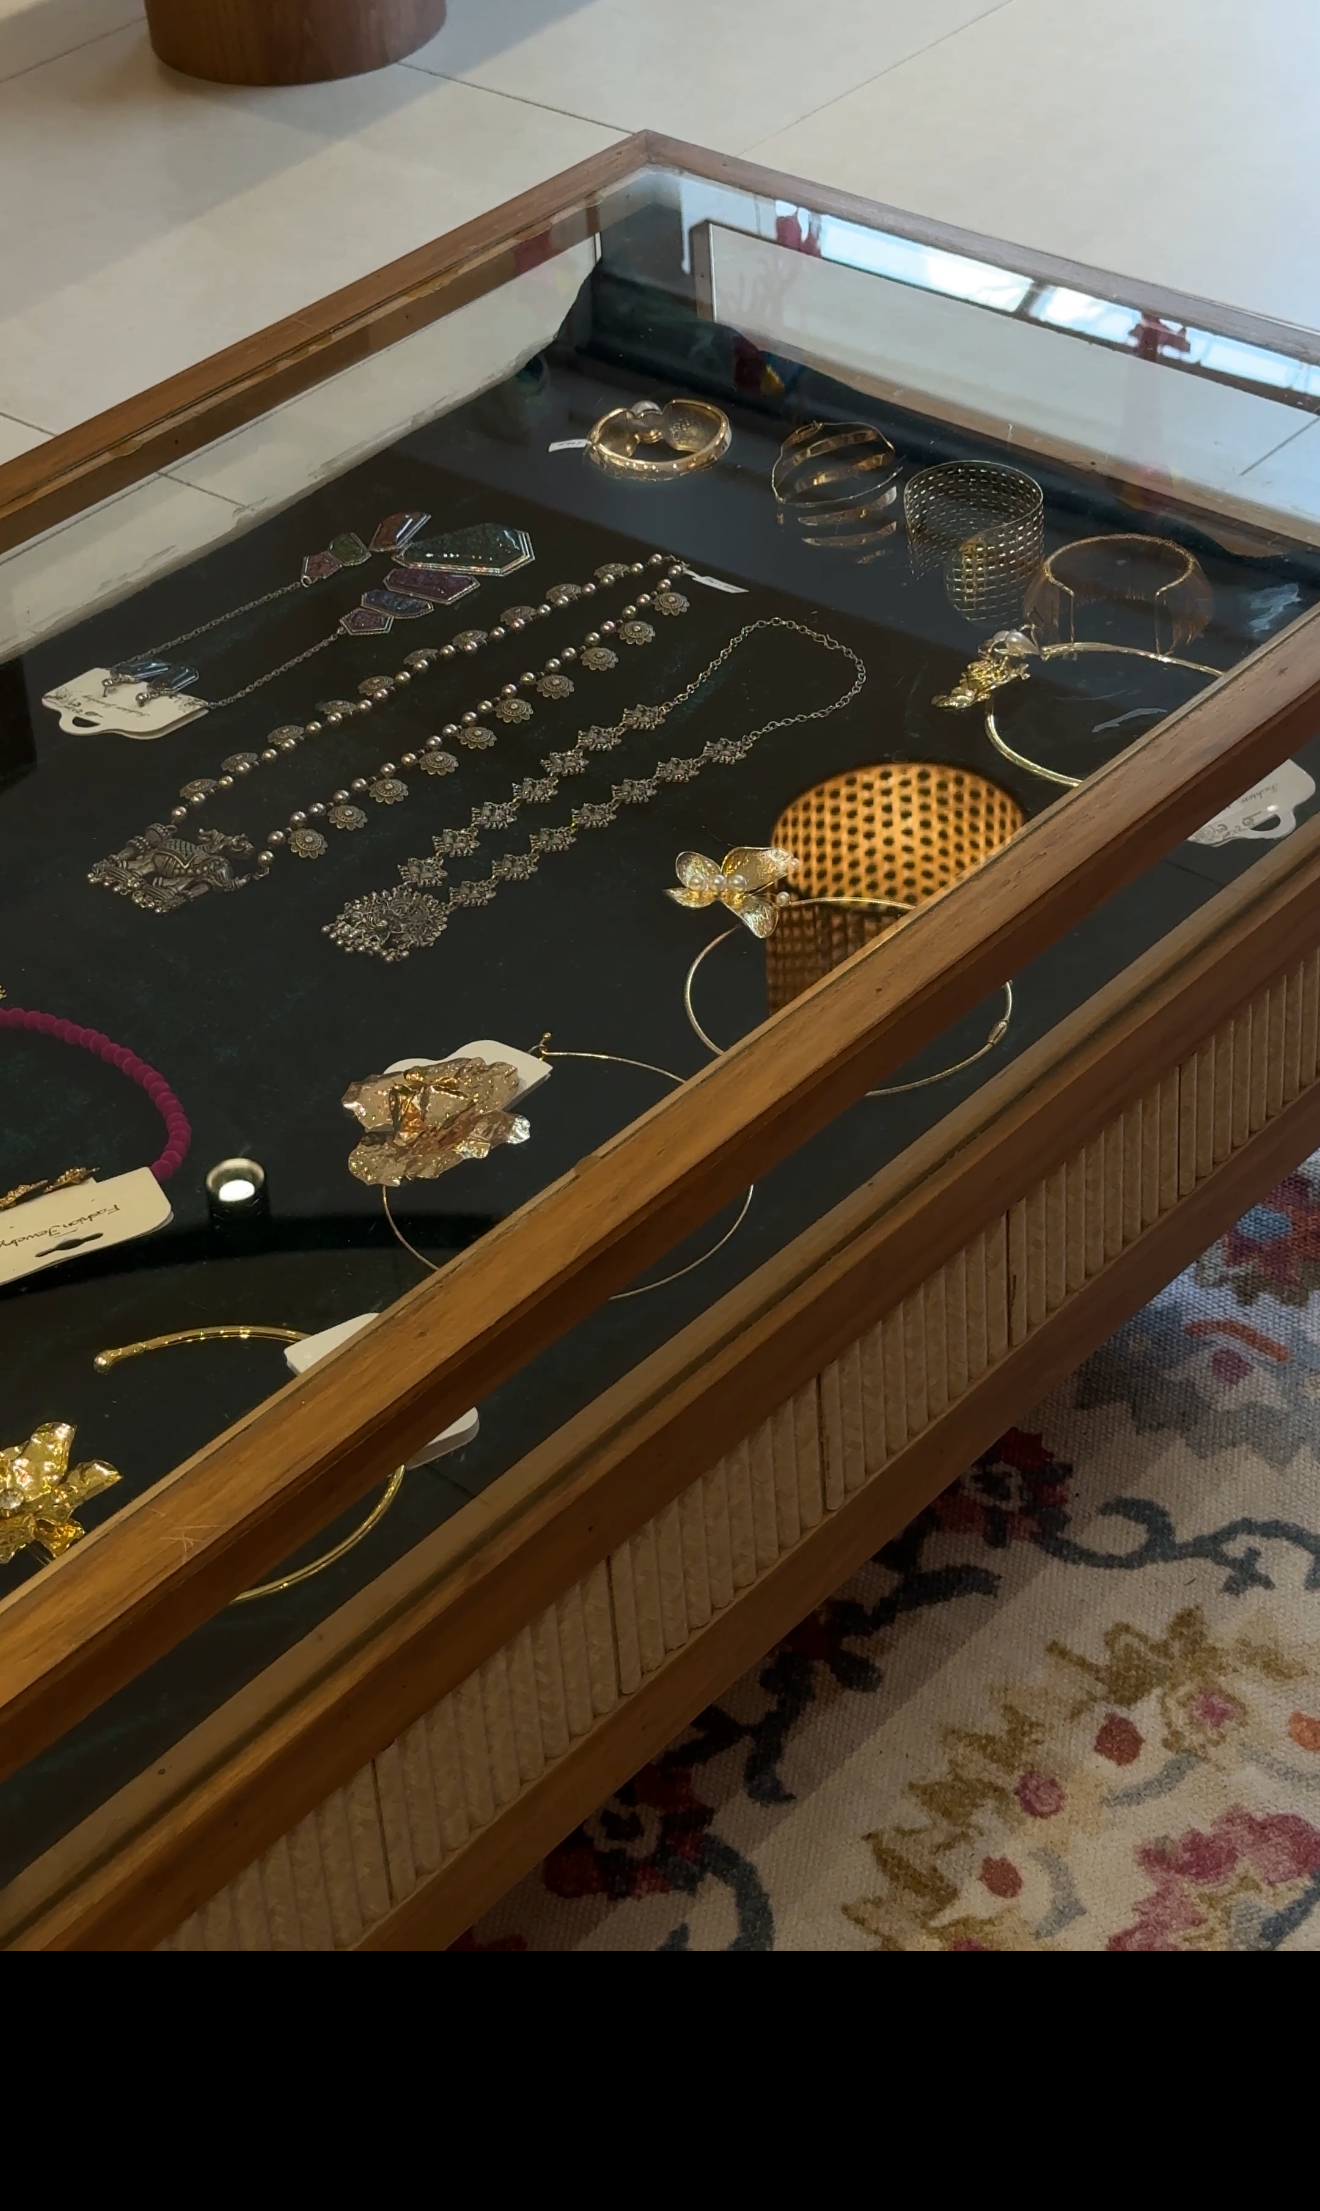
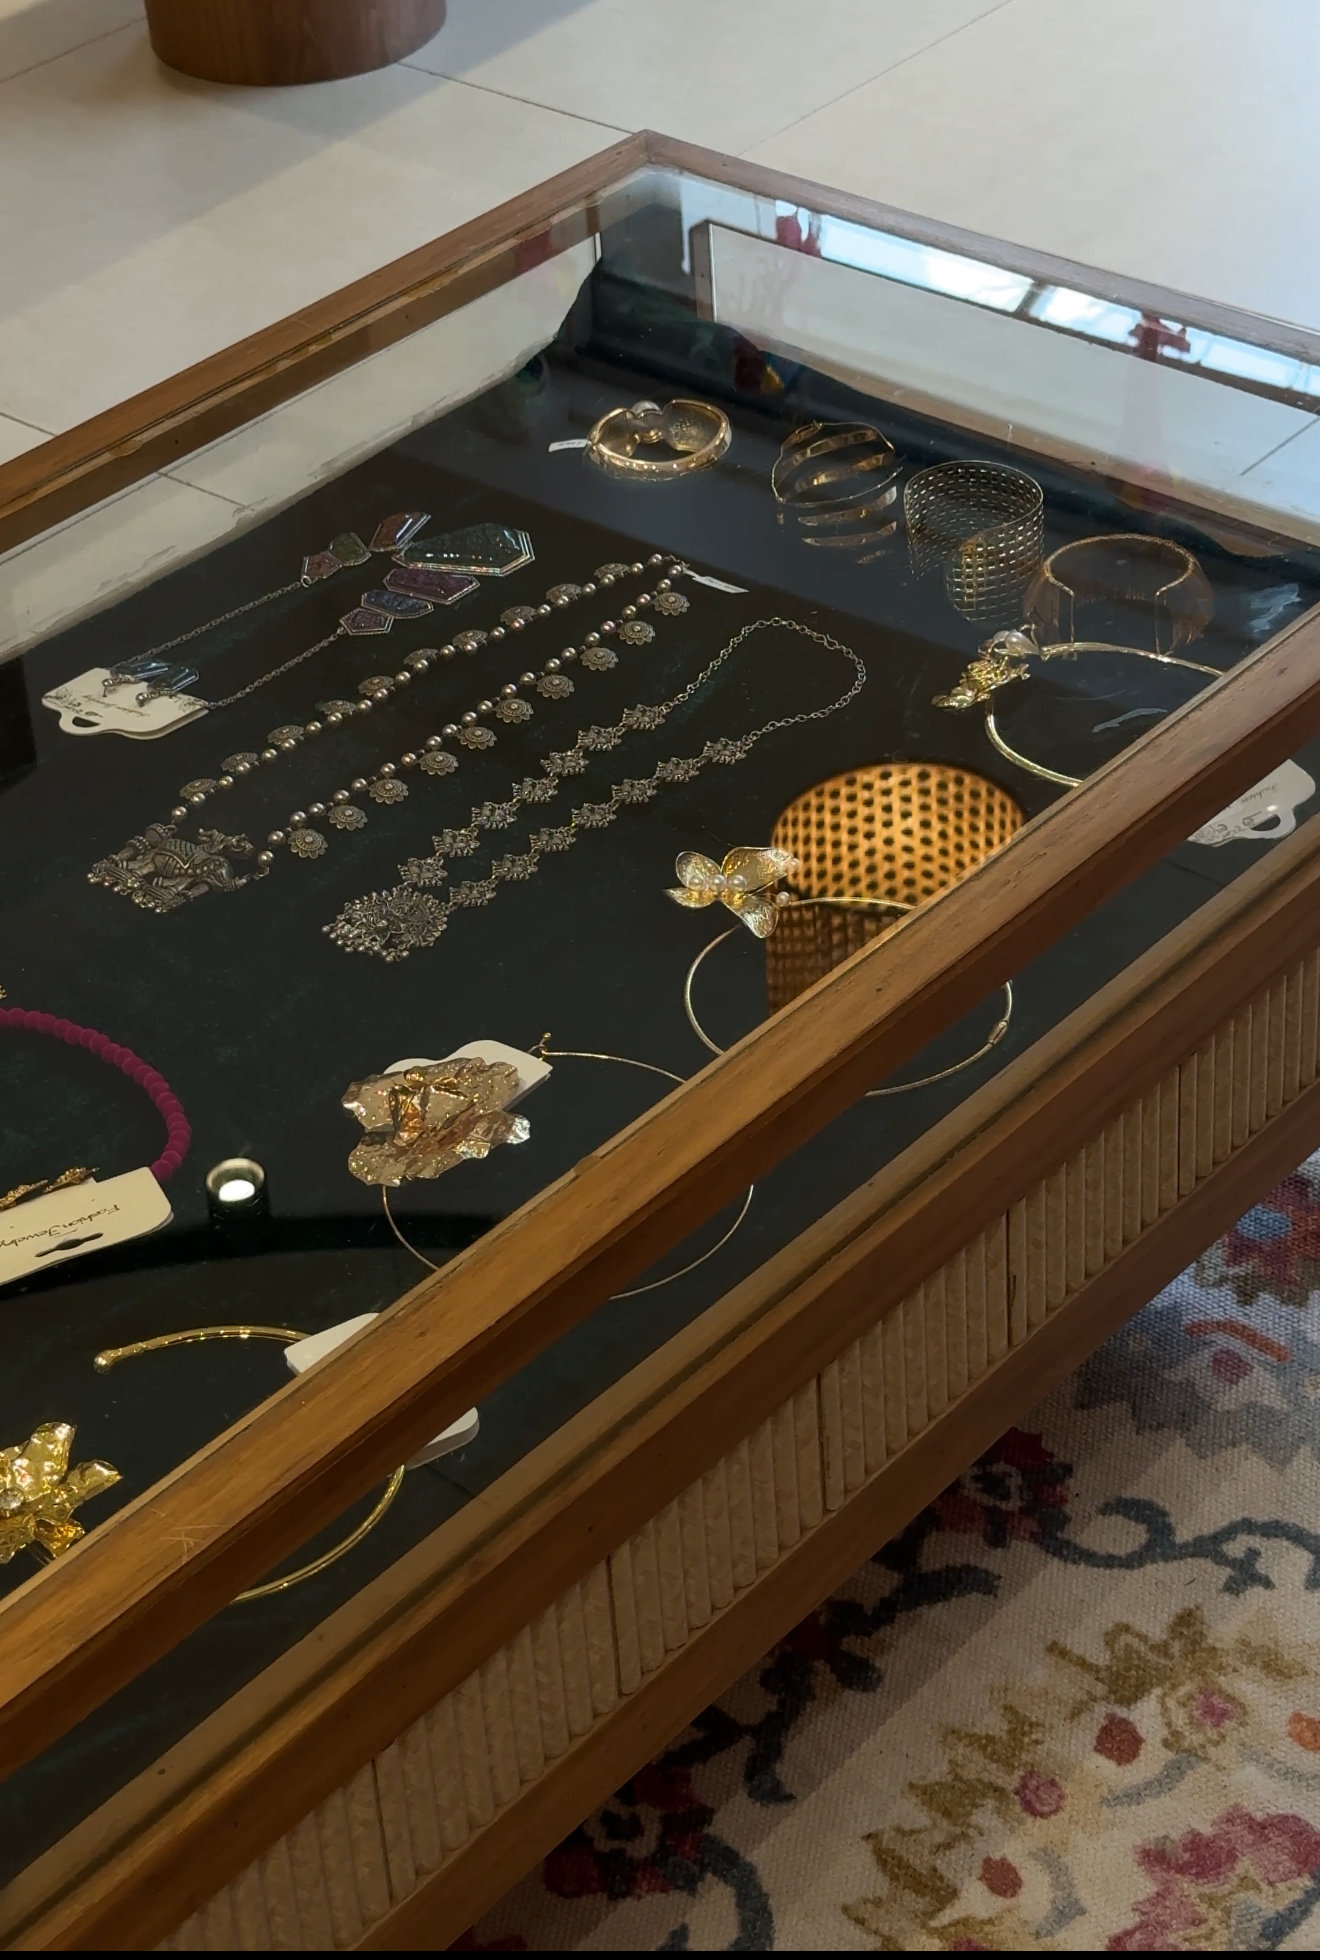
Adjust Watch Finest spacing and video heights on mobile

diff --git a/src/index.css b/src/index.css
@@ -1434,7 +1434,7 @@
   }
 
   .image-box {
-    @apply w-[70vw] h-[80vh];
+    @apply w-[70vw] h-[70vh];
   }
 
   .images-row {
@@ -1447,6 +1447,14 @@
 
   .watch-finest {
     @apply pt-[30px] pb-0;
+  }
+
+  .watch-title {
+    @apply mb-0;
+  }
+
+  .watch-images-row {
+    margin-top: -30px;
   }
 
 
@@ -1516,7 +1524,7 @@
   }
 
   .image-placeholder {
-    @apply w-full h-[30vh];
+    @apply w-full h-[35vh];
   }
 
   .image-text {
